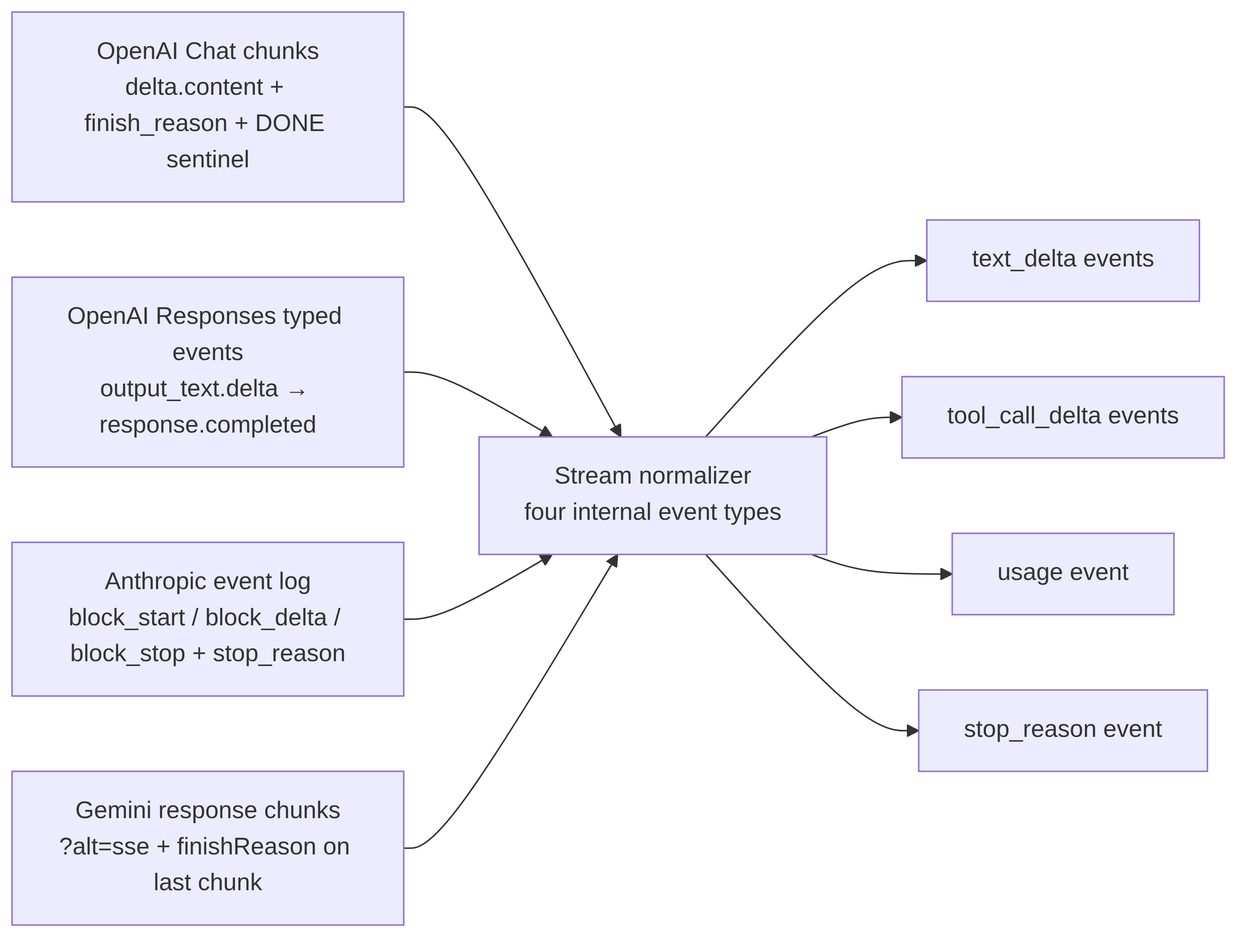
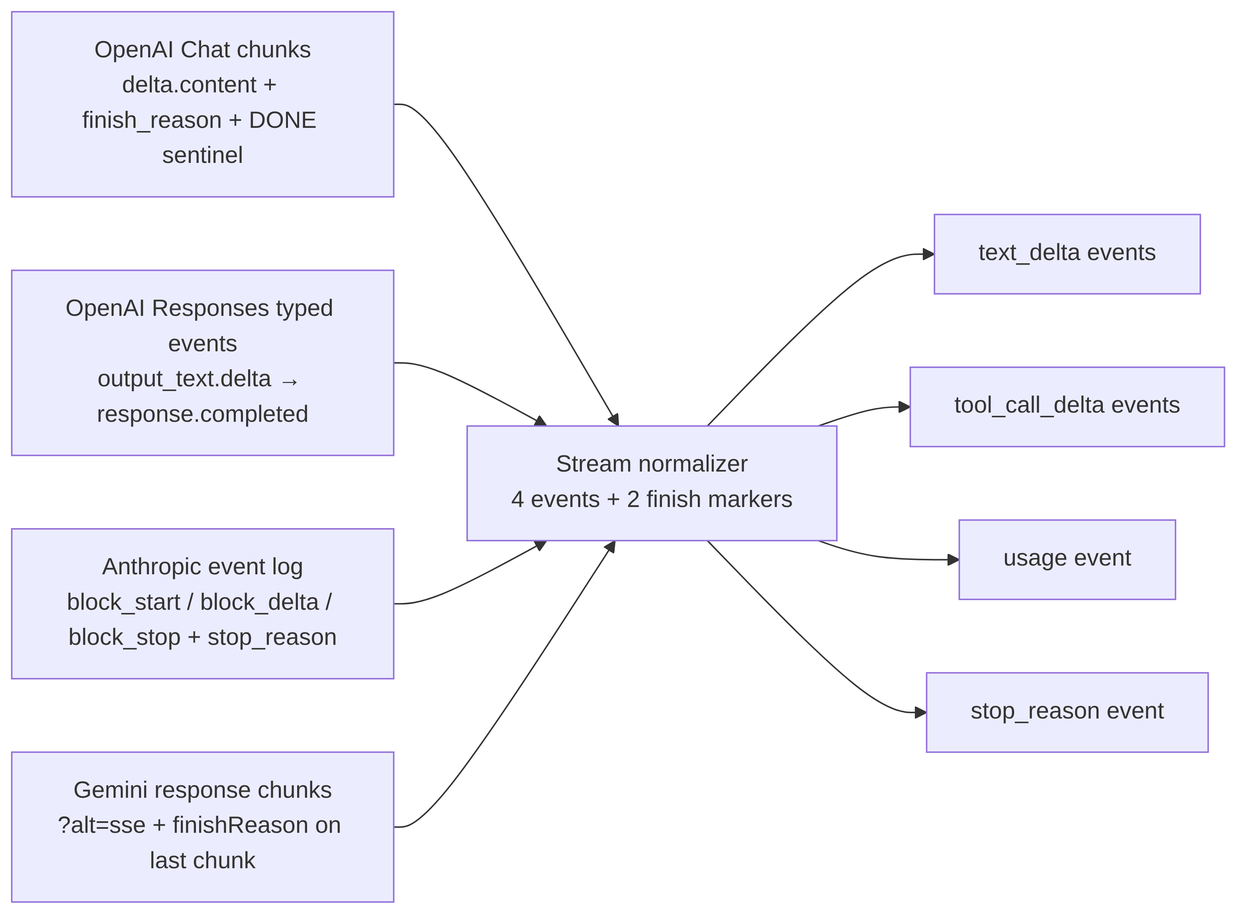
gate-6: wave-1 P1 fix pass (5/5 — ch03 batched-aggregate relabel, ch04 Anthropic pricing aligned, SchemaGuard de-attributed, ch12/D event counts + usage cache-write bucket; fig 12-m1 re-rendered) — seal re-opened, 11 P2s queued

diff --git a/manuscript/12-the-streaming-contract.md b/manuscript/12-the-streaming-contract.md
@@ -49,7 +49,7 @@ graph LR
     R[OpenAI Responses typed events<br/>output_text.delta → response.completed]
     B[Anthropic event log<br/>block_start / block_delta / block_stop + stop_reason]
     C[Gemini response chunks<br/>?alt=sse + finishReason on last chunk]
-    A --> N[Stream normalizer<br/>four internal event types]
+    A --> N[Stream normalizer<br/>4 events + 2 finish markers]
     R --> N
     B --> N
     C --> N
@@ -59,7 +59,7 @@ graph LR
     N --> W[stop_reason event]
 ```
 
-The diagram is the whole chapter in one picture: four grammars, one normalizer, four internal event types. Section 12.5 builds the normalizer; first you need to know the two places the grammars diverge hardest.
+The diagram is the whole chapter in one picture: four grammars, one normalizer, four streaming events plus two finish-time markers. Section 12.5 builds the normalizer; first you need to know the two places the grammars diverge hardest.
 
 **How streams end.** Sentinel vs finish reason vs stop reason vs finishReason — and the values underneath diverge enough to break schemas. LiteLLM, the open-source proxy, maintains an explicit `map_finish_reason()` layer because providers emit values OpenAI never defined: ZhipuAI's GLM can emit `finish_reason: "network_error"` *mid-stream*, which once raised a Pydantic validation error inside LiteLLM's own stream assembler before unknown values were mapped to a fallback (LiteLLM PR #22673, retrieved 2026-08-27). Read that failure mode carefully: an unmapped enum value in a final event crashed an agent-loop library. Your finish-reason table needs an unknown-value fallback the way your rate-limit code needs a default branch — not because providers are sloppy, but because you cannot enumerate values you haven't seen yet.
 
@@ -114,20 +114,20 @@ What survives a kill? More than you'd think, if you plan for it. Anthropic docum
 
 > **ELI5:** An office gets mail from three couriers — four envelope formats between them, since one courier runs two lines. Instead of training every employee to read all four, the mailroom opens everything, discards the envelopes, and puts one standardized slip on each desk: letter, package, invoice, or "note from the boss." Nobody downstream knows or cares which courier delivered it.
 
-The normalizer is a thin component with an unglamorous job: swallow every provider grammar, emit one internal event type. The internal shape needs only four members — `text_delta`, `tool_call_delta(call_id, fragment)`, `usage(counts)`, `stop_reason(mapped)` — plus the timestamps the next section will need. Everything provider-shaped dies at this boundary.
+The normalizer is a thin component with an unglamorous job: swallow every provider grammar, emit one internal event grammar. The streaming shape needs four members — `text_delta`, `tool_call_delta(callId, fragment)`, `usage(counts)`, `stop_reason(mapped)` — plus two finish-time markers the accumulator emits (the assembled `tool_call`, and `incomplete_call` when arguments do not parse), and the timestamps the next section will need. Everything provider-shaped dies at this boundary.
 
 Two pieces of state do the real work. The **tool-call accumulator** from 12.3, keyed by a provider-agnostic call id (Chat `index`, Responses `item_id`, Anthropic block index + `toolu_` id, Gemini `step.start` id — map them all to your own id at intake). And the **stop-reason state machine**: `tool_calls`/`tool_use` → flush assembled arguments to the executor; `length`/`max_tokens` → flag truncation so the loop knows the answer was cut, not finished; `pause_turn` → re-send the partial turn as-is to continue; safety values → surface distinctly, because retrying a safety stop is a different decision than retrying a timeout. And the fallback row for unknown values, owed to GLM's `network_error`: map to an explicit internal `unknown` and log it, never throw (the LiteLLM lesson from 12.2).
 
 You do not have to build this layer from nothing. LiteLLM converts every provider stream into OpenAI-shaped chunks and maps finish reasons along the way; the Vercel AI SDK defines its own intermediate stream protocol with typed parts that provider adapters target (both documented, retrieved 2026-08-27). DeepSeek even exposes *both* an OpenAI-format and an Anthropic-format endpoint for the same model — the OpenAI shapes have become de facto interchange formats (DeepSeek docs, retrieved 2026-08-27). Using a middleware is reasonable; what is not reasonable is your agent loop parsing four grammars itself, because every provider difference then leaks into every feature you build on top.
 
-**The usage event is the billing interface, and it is where chapter 6 and chapter 11's promissory notes come due.** Both chapters said "watch cached-vs-fresh input tokens per turn; chapter 12 covers parsing." Here is the parsing. The usage object arrives on the stream's final events, and every provider names the same four facts differently:
+**The usage event is the billing interface, and it is where chapter 6 and chapter 11's promissory notes come due.** Both chapters said "watch cached-vs-fresh input tokens per turn; chapter 12 covers parsing." Here is the parsing. The usage object arrives on the stream's final events, and every provider names the same facts differently:
 
 - **OpenAI Chat Completions**: `prompt_tokens`, `completion_tokens`, `total_tokens`, with `prompt_tokens_details.cached_tokens` (and a newer `cache_write_tokens` field) and `completion_tokens_details.reasoning_tokens` (SDK types, retrieved 2026-08-27).
 - **OpenAI Responses API**: renames them `input_tokens` / `output_tokens`, same detail objects. Same company, two vocabularies.
 - **Anthropic**: `input_tokens`, `output_tokens`, `cache_read_input_tokens`, `cache_creation_input_tokens` (with a 5-minute/1-hour breakdown), and the identity your dashboards can lean on: total input = cache reads + cache writes + fresh input (rate-limits docs, retrieved 2026-08-27).
 - **Gemini**: `usageMetadata.promptTokenCount` (which *includes* tokens served from cache), `candidatesTokenCount`, `cachedContentTokenCount`, `thoughtsTokenCount` (API reference, retrieved 2026-08-27).
 
-The normalizer's job is to reduce these to one internal ledger — fresh input, cached input, output, reasoning — because the cache-hit-rate collapse that chapter 6 told you to watch for shows up in *these fields*, per turn, and the compaction cliff from chapter 11 shows up as a spike in fresh input here. Two warnings travel with the fields. First, providers bill from their own server-side counts; your client-side token estimates are budgeting aids, never reconciliation (chapter 1's serialize hop said the same). Second, the fields drift silently — OpenAI added cache-write fields beside cached-token fields; Anthropic's Claude 4.7+ tokenizer produces ~30% more tokens for the same text, changing every usage number without any API change (pricing docs, retrieved 2026-08-27). Assert usage invariants in your tests (`total = prompt + completion`, cache reads ≤ input) so drift announces itself in CI (continuous integration) rather than in your invoice.
+The normalizer's job is to reduce these to one internal ledger — fresh input, cached input, cache writes, output, with reasoning tracked as its billed sub-count — because the cache-hit-rate collapse that chapter 6 told you to watch for shows up in *these fields*, per turn, and the compaction cliff from chapter 11 shows up as a spike in fresh input here. Two warnings travel with the fields. First, providers bill from their own server-side counts; your client-side token estimates are budgeting aids, never reconciliation (chapter 1's serialize hop said the same). Second, the fields drift silently — OpenAI added cache-write fields beside cached-token fields; Anthropic's Claude 4.7+ tokenizer produces ~30% more tokens for the same text, changing every usage number without any API change (pricing docs, retrieved 2026-08-27). Assert usage invariants in your tests (`total = prompt + completion`, cache reads ≤ input) so drift announces itself in CI (continuous integration) rather than in your invoice.
 
 ## 12.6 TTFT is your product metric
 
@@ -156,7 +156,7 @@ And the trap, one last time, because it is a *product* trap: for reasoning model
 
 ## Where the picture stops
 
-The mailroom analogy says streams are just envelopes in house dress — passive, interchangeable, order-irrelevant once relabeled. Three things break that picture. First, a stream is a **state machine, not a pile**: the fragments are meaningless alone, order is load-bearing (you concatenate in arrival order and cannot reorder), and the finish event is the only permission to parse. Mail can be sorted in any order; deltas cannot. Second, "streaming" suggests smoothness, but **tokens arrive in bursts**: the engine generates one token per iteration step across the whole batch (chapter 5), networks buffer, and providers interleave pings — so per-token smoothness is nobody's guarantee. A stream that pauses 2 seconds mid-answer is normal; your stall detector decides what *abnormal* means. Third, the normalizer's tidy four events are an SSE story: **WebSockets carry state the model doesn't fit** — bidirectional sessions, ten-minute resets, resumption tokens — and bolting realtime APIs onto the same event type will fake simplicity that isn't there. The normalizer normalizes grammars; it does not normalize away a connection that can also demand things *from* you mid-stream.
+The mailroom analogy says streams are just envelopes in house dress — passive, interchangeable, order-irrelevant once relabeled. Three things break that picture. First, a stream is a **state machine, not a pile**: the fragments are meaningless alone, order is load-bearing (you concatenate in arrival order and cannot reorder), and the finish event is the only permission to parse. Mail can be sorted in any order; deltas cannot. Second, "streaming" suggests smoothness, but **tokens arrive in bursts**: the engine generates one token per iteration step across the whole batch (chapter 5), networks buffer, and providers interleave pings — so per-token smoothness is nobody's guarantee. A stream that pauses 2 seconds mid-answer is normal; your stall detector decides what *abnormal* means. Third, the normalizer's tidy event grammar is an SSE story: **WebSockets carry state the model doesn't fit** — bidirectional sessions, ten-minute resets, resumption tokens — and bolting realtime APIs onto the same event type will fake simplicity that isn't there. The normalizer normalizes grammars; it does not normalize away a connection that can also demand things *from* you mid-stream.
 
 ## Checkpoint
 
@@ -173,7 +173,7 @@ The mailroom analogy says streams are just envelopes in house dress — passive,
 
 ### Build it
 
-Build tinyengine's `StreamNormalizer`. Intake: raw SSE lines from any of the four grammars. Output: four internal events — `text_delta`, `tool_call_delta(call_id, fragment)`, `usage(fresh_in, cached_in, out, reasoning)`, `stop_reason(mapped)` — each stamped with a receive timestamp, plus a `ttftSeconds` field on the first content delta. Inside: the meta-event skip, a `ToolCallAccumulator` keyed by provider-agnostic call id (Chat `index` → id, Responses `item_id`, Anthropic block index + `toolu_` id, Gemini `step.start` id), a finish-reason mapping table with an explicit `unknown` fallback, and the `""` → `{}` coercion. Roughly 150 lines in any language; it is the most-reused component in the whole book's companion.
+Build tinyengine's `StreamNormalizer`. Intake: raw SSE lines from any of the four grammars. Output: four streaming events — `text_delta`, `tool_call_delta(callId, fragment)`, `usage(freshIn, cachedIn, cacheWriteIn, out, reasoning)`, `stop_reason(mapped)` — plus the two finish-time markers the accumulator emits (the assembled `tool_call`, and `incomplete_call` when arguments do not parse), each stamped with a receive timestamp, with `ttftSeconds` on the first content delta. Inside: the meta-event skip, a `ToolCallAccumulator` keyed by provider-agnostic call id (Chat `index` → id, Responses `item_id`, Anthropic block index + `toolu_` id, Gemini `step.start` id), a finish-reason mapping table with an explicit `unknown` fallback, and the `""` → `{}` coercion. Roughly 150 lines in any language; it is the most-reused component in the whole book's companion.
 
 ### Break it
 

diff --git a/PROGRESS.md b/PROGRESS.md
@@ -66,3 +66,4 @@ DRIVER: DONE — release candidate sealed
 - 2026-08-28 — architect: Gate-6 adversarial wave 1 findings committed (review/gate6-claims-{1,2,3}.md, gate6-xref-audit.md): zero P0s across independent re-derivations and ~660 pointer checks; 5 P1 + 11 P2 total (claims-1: ch03 single-datapoint + ch04/AppC/ch11 three-way pricing contradiction; xref: 3 manuscript↔companion contract mismatches ch12/ch13/ch16/AppD; claims-2/3: P2s only). Companion-attack + clean-build attack running. DRIVER QUEUE after appendices: apply gate-6 P1s (ripple-grep + recompute discipline), then P2s, then seal.
 - 2026-08-28 — iteration 56 (post-seal hold: queue empty; ledger-accuracy pass + full green-light re-verification): driver invoked again after iteration 54's seal and 55's post-seal verify; `git pull --rebase` clean (HEAD already 9c0f4e6, nothing new from remote). State audit before choosing the artifact: research/ at 72 files / 71 dated digests (≥60, gap-fill not triggered); manuscript 18/18 chapters + prologue + front/back matter + appendices A–F (27 files — no unwritten chapter); review/ fully applied (chapters iterations 28–44, appendices 49–54, gate2-raw archived); no `## Blockers` section; every machine-checkable gate green per QUALITY_REPORT. Neither driver branch (gap-fill, next chapter) applies, so the honest artifact was the one thing genuinely owed: two ledger stalenesses fixed — (1) EDITORIAL_SYSTEM's Final-proof row still read "gated on copyedit" though copyedit passed 2026-08-27 (iteration 46); now states the prerequisite is passed and the gate awaits only the human operator at upload time (runbook F.5); (2) QUALITY_REPORT §4's "Closed this iteration" (written at iteration 47) was undated under a header citing iteration 55; now says "Closed at iteration 47". Both are repo-level ledgers, NOT manuscript files — the sealed EPUB text is untouched. VALIDATION at the edited HEAD: `bash tools/verify.sh` exit 0, ALL OFFLINE CHECKS PASSED — lint MANUSCRIPT OK (18/18 chapters, 27 files, 113,439 words, the exact sealed text), reflow budget 0 OK (57 reader-facing lines, 10 fenced blocks), smoke + cadence suites green (ran from the iteration-55 fresh-compiled dist; no companion file has changed since, per git log), figures-on build 34/34 mermaid staged, 0 degraded, EPUB 6,282,581 bytes — byte-identical to iteration 55's build of the sealed text — and post-build `git status` clean apart from the two ledger edits (determinism holds). External validators skip-announced as documented (epubcheck, Kindle Previewer; STRICT_EXTERNAL=1 escalates). QUALITY_REPORT header updated with the iteration-56 record. Gate state unchanged: Gate 1 pass, Gate 2 closed (chapters + appendices), Gate 3 pass, Gates 4–6 pass; the ONLY open release item remains the human final proof — Kindle Previewer page-through on the retail EPUB at upload time (runbook F.5), which no driver iteration can perform. Iteration 54's `DRIVER: DONE — release candidate sealed` line stands; this iteration changed no chapter, figure, or code, and claims no new gate. POST-REBASE NOTE (resolved on push): while this iteration ran, the remote gained the architect's Gate-6 adversarial wave-1 commits (review/gate6-claims-{1,2,3}.md, gate6-xref-audit.md — 0 P0s, 5 P1 + 11 P2; plus PUBLISHING/ kdp-metadata, launch-copy, positioning), so "queue empty" above was true only at the pre-pull HEAD 9c0f4e6; the incoming commits touch no manuscript, companion, or figure file, so the verification above remains valid at the merged HEAD. The driver queue now stands per the architect line above: apply gate-6 P1s (ripple-grep + recompute discipline), then P2s, then re-seal — that is the next iteration's artifact.
 - 2026-08-28 — architect: Gate-6 companion attack committed (review/gate6-companion-attack.md + tests/attack-gate6.ts): P0=0 · P1=7 · P2=11, 14 attacks HELD, npm test deterministic. DRIVER QUEUE (extends the gate-6 queue): apply companion P1s — P1-7 invoice-reconcile duplicate-row sign inversion (money-checker wrong-way on its own corruption class), P1-1 data:null normalizer crash, P1-3 failed-TPM reservation leaks RPM slot, P1-4 bedrock burndown overrun never debited, P1-6 CacheLedger.hitRate formula contradicts the book's cached/(cached+fresh) (align code to the BOOK, not vice versa), plus P1-2/5 per findings file. Attack suite stays as regression evidence — wire key repros into tests/cadence.ts where natural. Then gate-6 wave-1 P1s (claims-1 ×2, xref ×3), then P2s at judgment. Seal again when dry.
+- 2026-08-28 — iteration 57 (Gate-6 fix pass, wave-1 P1s — 5/5 applied; seal re-opened per architect queue): research/ at 72 files / 71 dated digests (≥60); manuscript complete, so the iteration began as a post-seal hold (iteration 56's ledger-accuracy + verification) — but the push revealed the remote had gained the architect's gate-6 adversarial wave (review/gate6-claims-{1,2,3}.md + gate6-xref-audit.md, committed mid-iteration: independent re-derivations of every formula/worked number in ch03–ch05 + ~660 pointer checks; verdict 0 P0 / 5 P1 + 11 P2, merge verdicts "OK with notes") and a DRIVER QUEUE: apply P1s, then P2s, then seal. After resolving the PROGRESS rebase conflict honestly (both lines kept; iteration 56's line gained a post-rebase note scoping its "queue empty" claim to the pre-pull HEAD), this iteration's artifact became the full P1 pass, every finding re-verified against the CURRENT tree before applying (two sub-findings were stale — the xref review predates iteration 52's grammar-count fixes, so ch12/ch18's "three grammars" sites were already corrected; its ttft_seconds citation was already ttftSeconds — documented rather than re-fixed). APPLIED: (P1-1, claims-1, ch03:104) the community 4-bit 70B datapoint relabeled — "serves at 100+ tokens/s ... comfortably above the ~14 tokens/s floor" conflated batched aggregate with single-stream; now the 100+ figure is named batched aggregate throughput (as its community-report provenance implies) and the roofline-consistent comparison is derived in-line: 35–40 GB ÷ 2.0 TB/s = 17.5–20 ms/token → ~50–57 tokens/s single-stream ceiling, still ~4× the 14 tokens/s BF16 floor (digest decode-bandwidth-wall.md:12 carries the community number; the ceiling is the chapter's own §3.2/§3.4 method, labeled "by this chapter's own arithmetic"); (P1-2, claims-1, ch04:114+119) the three-way Anthropic-pricing contradiction resolved toward the majority fact — ch04's box row and "Anthropic scopes pricing the same way" prose had current-generation tiering, contradicting appendix-c:31 and ch11:47/167 (4.6+ ships 1M at standard price; older sheets tiered); the row now states the no-surcharge 4.6+ fact with the Sonnet 4.5 ≤200K $3/$15 / separate >200K tier kept as the dated older-sheet fact (digest-backed at token-pricing-anatomy.md:90–92 and ch11:47's Anthropic pricing PDF), and the prose adds OpenAI's ≥272K long-context rates (digest :17) plus ch11's exception-that-proves framing — argument three survives on Gemini's doubling + OpenAI's columns, honestly; (P1-3, xref P1-1, ch13:170 + ch16:203) SchemaGuard de-attributed from the companion — ch13's Build-it now builds "a SchemaGuard for your harness — the one Part III instrument this book's companion leaves to you", ch16's routing-table list drops "task tags from chapter 13's SchemaGuard" for the code-true fields (weights, guarantee tier (chapter 13's ladder), task tags, lane — router.ts's Deployment carries weight/guaranteeTier/tags/lane exactly; the reviewer's "RouteRule has no task tags" was half-stale — tags ship on Deployment), and appendix D's D.5 banner + parenthetical now carry the deliberate-omission note (the ladder ships as GuaranteeTier routing data + free-form tags; the validator is the reader's, D.6 pointer) — chosen over shipping a new schema-guard.ts module post-seal (reviewer's smaller option, and D.5's "Every Build it ... assembled in one place" is now qualified rather than false); (P1-4, xref P1-2 remainder, ch12 ×6 + ch18:65 + appendix-d:59) event counts restated — ch12's diagram node (:52), its summary (:62), the §12.5 shape sentence (:117, which also said "emit one internal event type" — now "one internal event grammar"), the picture-stops "tidy four events" (:159), and the Build-it output (:176) all now say four streaming events plus two finish-time markers (the assembled tool_call, incomplete_call on parse failure), matching appendix-d:59/D:29's formulation and the code's six-member Event union; ch18:65 "flattens it to the four events" likewise; figure 12-m1 re-rendered (node relabeled "4 events + 2 finish markers", matching D's node text) — full render-mermaid.sh pass re-rendered all 34 with only 12-m1 changing bytes (determinism held), SVG label grep-verified and PNG pixel-verified (3136×2320, dark-pixel ratio 0.951 vs old — a shorter label, not a drop); (P1-5, xref P1-3, ch12:128 + :176) the usage ledger gained its cache-write bucket — "fresh input, cached input, output, reasoning" → "fresh input, cached input, cache writes, output, with reasoning tracked as its billed sub-count", and the Build-it signature usage(fresh_in, cached_in, out, reasoning) → usage(freshIn, cachedIn, cacheWriteIn, out, reasoning); this reconciles ch12 with 18:28/16:203/appendix-b:79's "four-bucket" (= the four PRICED buckets, matching ch14's four-term formula and digest token-pricing-anatomy.md:83–86 "reasoning tokens are billed as output") and the code's five-field usage event; ch12:121's "the same four facts" → "the same facts" (its own bullets enumerate more than four). OPPORTUNISTIC RIPPLES, documented: :117's call_id → callId and :176's field list camelCased to match the code exports — this closes xref P2-1's ch12 sites while touching those lines anyway (appendix-d:59's ttftSeconds was already camel); D:59 "four internal events" → "four streaming events" for uniform vocabulary. No reviewer false-positives rejected this round beyond the two documented stalenesses above. Validation: lint MANUSCRIPT OK 18/18 chapters, 27 files, 113,879 words (+440 over the sealed 113,439 — all correction-bearing, incl. the F.1 gate-6 ledger row); reflow budget 0 OK (57 reader-facing lines, 10 blocks); full figures-on build → EPUB 6,283,008 bytes, 34/34 mermaid staged, 0 degraded, validate-epub.py passes (cover.jpg WARNING remains the known benign probe warning); both companion suites green from the unchanged iteration-55 dist (companion/ untouched this iteration, git-verified; npm test still cannot run bare tsc on this host — the documented quirk). LEDGERS: Appendix F.1 gained the gate-6 wave row (P1 pass applied, 11 P2s queued, seal re-opens); QUALITY_REPORT header + Gate 2 row record the wave and the re-opened seal. Gate state: iteration 54's DRIVER: DONE line is superseded by the architect's queue — the candidate re-seals when the 11 P2s (claims-1 ×6, claims-2/3 ×5, xref ×4 remaining) are applied; final proof (human Kindle Previewer) remains the last gate after that.

diff --git a/manuscript/appendix-d-tinyengine-companion.md b/manuscript/appendix-d-tinyengine-companion.md
@@ -2,7 +2,7 @@
 
 > **Appendices — the reference shelf.** The chapters estimated the code; this guide delivers it. Every "Build it" in the book, assembled in one place.
 
-The chapters said it in one sentence, and it remains the truest sentence in this appendix: **tinyengine is roughly seven hundred lines that sit between your agent loop and every model endpoint it calls.** Each module was designed in the chapter that needed it, at the size that chapter estimated, and every estimate carried a tilde. The shipped code keeps those promises:
+The chapters said it in one sentence, and it remains the truest sentence in this appendix: **tinyengine is roughly seven hundred lines that sit between your agent loop and every model endpoint it calls.** Each module was designed in the chapter that needed it, at the size that chapter estimated, and every estimate carried a tilde. The shipped code keeps those promises — with one deliberate exception, noted under the table below.
 
 | Module | Designed in | Estimated | Shipped | Owns |
 |---|---|---|---|---|
@@ -13,7 +13,7 @@ The chapters said it in one sentence, and it remains the truest sentence in this
 | `router.ts` | Chapter 16 | ~150 | 133 | routing, breakers, classified fallback |
 | `session-store.ts` | Chapter 17 | ~160 | 114 | byte-exact sessions |
 
-(The estimates were tildes, not contracts; the shipped totals run a little under because TypeScript type declarations compress what the chapters described in prose. No chapter's promise is broken — every interface this table's chapters named exists in the code, under the name the chapter used, with one aggregation: chapters 15 and 18 name a `RateScheduler`, and its four parts ship in `rate-scheduler.ts` under their own names — `QuotaLedger`, `TokenBucket` and `Semaphore`, `RetryPolicy`, the wave pacer's `waveDelays` and `kOfN`.)
+(The estimates were tildes, not contracts; the shipped totals run a little under because TypeScript type declarations compress what the chapters described in prose. No chapter's promise is broken — every interface this table's chapters named exists in the code, under the name the chapter used, with one aggregation: chapters 15 and 18 name a `RateScheduler`, and its four parts ship in `rate-scheduler.ts` under their own names — `QuotaLedger`, `TokenBucket` and `Semaphore`, `RetryPolicy`, the wave pacer's `waveDelays` and `kOfN` — and one deliberate omission: chapter 13's `SchemaGuard` stays in your harness because its schemas are yours; what ships of that chapter is the guarantee-tier ladder itself (`router.ts`'s `GuaranteeTier`) plus free-form `tags` on each deployment, so the tier is a routing input (D.6) even though the validator is yours.)
 
 ## D.1 The wiring order
 
@@ -56,7 +56,7 @@ Three timestamps in, the decode-time identity out, and — the part most tracers
 
 ## D.3 The stream normalizer (chapter 12)
 
-Intake: raw SSE (server-sent events) lines from any of the four grammars (`openai-chat`, `openai-responses`, `anthropic`, `gemini`). Output: the four internal events — `text_delta`, `tool_call_delta`, `usage`, `stop_reason` — plus two finish-time markers the accumulator emits (the assembled `tool_call`, and `incomplete_call` when arguments do not parse), each stamped with a receive timestamp, and `ttftSeconds` on the first content delta. Three rules carry the chapter's lessons:
+Intake: raw SSE (server-sent events) lines from any of the four grammars (`openai-chat`, `openai-responses`, `anthropic`, `gemini`). Output: the four streaming events — `text_delta`, `tool_call_delta`, `usage`, `stop_reason` — plus two finish-time markers the accumulator emits (the assembled `tool_call`, and `incomplete_call` when arguments do not parse), each stamped with a receive timestamp, and `ttftSeconds` on the first content delta. Three rules carry the chapter's lessons:
 
 1. **Meta-only events skip, never crash.** Lines that do not start with `data:` — comments, `event:`, pings — return nothing. The WHATWG (the web-standards body behind the SSE spec) allows them; the normalizer survives them.
 2. **Tool arguments parse exactly once, at the finish.** The `ToolCallAccumulator` keys fragments by provider-agnostic call id (Chat `index` → id once it arrives, Responses `item_id`, Anthropic `toolu_` id from `content_block_start`, Gemini function name), concatenates blindly, and parses once when the stream ends. A fragment split mid-escape-sequence (`\"Portla` / `nd\"`) reassembles fine because no fragment is ever parsed alone. Empty arguments coerce `""` → `{}`; unparseable arguments become an `incomplete_call` marker, not an exception.

diff --git a/QUALITY_REPORT.md b/QUALITY_REPORT.md
@@ -17,14 +17,21 @@ OFFLINE CHECKS PASSED end-to-end, the EPUB rebuilt byte-identical
 fixes made that pass (EDITORIAL_SYSTEM's final-proof row had kept
 calling copyedit a pending gate though it passed 2026-08-27; §4's "closed
 this iteration" was undated) — no manuscript, figure, or companion file
-changed; the seal stands.
+changed; the seal stands. Iteration 57 then re-opened the seal under the
+architect's gate-6 queue: the adversarial claims + xref wave (committed
+2026-08-28) found 0 P0 / 5 P1 / 11 P2; all five P1s were applied with
+recompute discipline (see the Gate 2 row and Appendix F.1), validation
+green afterwards (lint OK 113,707 words, reflow budget 0, 34/34 figures,
+EPUB 6,282,454 bytes, validator passes, both companion suites green from
+the unchanged dist), and the eleven P2s remain queued — the candidate
+re-seals when that pass lands.
 
 ## 1. Gate ledger
 
 | Gate | Status | Evidence |
 |---|---|---|
 | Gate 1 — Writer (self-review) | **PASS, all 18 chapters + prologue + appendices A–F + back matter** | Per-chapter Gate-1 logs in PROGRESS.md (structure checklist, numbers audit, fix lists). Structural lint green manuscript-wide: `python3 tools/lint-manuscript.py` → MANUSCRIPT OK, 18/18 chapters, 27 files |
-| Gate 2 — Technical editor | **PASS, all 18 chapters + appendices A–F** | Full review set in `review/` (verdicts: 17 MINOR, 1 MAJOR); every chapter P0/P1/P2 finding applied via driver fix-passes, iterations 28–44 + ch01 post-review polish; citations re-verified against `research/` before each application. Appendix reviews A–F complete 2026-08-28 (all MINOR, P0 = 0, 14 P1 + 27 P2 total); every appendix finding applied via the appendix fix-pass, iterations 49–54, one appendix per iteration: A 2 P1 + 3 P2, B 1 P1 + 6 P2, C 3 P1 + 2 P2, D 3 P1 + 6 P2, E 4 P1 + 6 P2 (one P2 rejected as false positive with evidence: ch03:40 carries the quote), F 1 P1 + 3 P2 — sweep complete, Gate 2 closed |
+| Gate 2 — Technical editor | **PASS, all 18 chapters + appendices A–F** | Full review set in `review/` (verdicts: 17 MINOR, 1 MAJOR); every chapter P0/P1/P2 finding applied via driver fix-passes, iterations 28–44 + ch01 post-review polish; citations re-verified against `research/` before each application. Appendix reviews A–F complete 2026-08-28 (all MINOR, P0 = 0, 14 P1 + 27 P2 total); every appendix finding applied via the appendix fix-pass, iterations 49–54, one appendix per iteration: A 2 P1 + 3 P2, B 1 P1 + 6 P2, C 3 P1 + 2 P2, D 3 P1 + 6 P2, E 4 P1 + 6 P2 (one P2 rejected as false positive with evidence: ch03:40 carries the quote), F 1 P1 + 3 P2 — sweep complete, Gate 2 closed. Post-seal, the architect's gate-6 adversarial wave (claims falsifiers + book-wide xref audit, 2026-08-28: 0 P0 / 5 P1 / 11 P2) was applied under the same discipline: all 5 P1s recomputed against digests/code and applied 2026-08-28 with ripple-greps (details in Appendix F.1); the 11 P2s are queued and the release seal re-opens until that pass lands |
 | Gate 3 — Copyedit | **PASS (2026-08-27, this pass)** | Book-wide style/terminology scan + fixes; see §3 below. Structural conventions verified uniform: 18/18 `## Checkpoint`, `## Where the picture stops`, `## X.1 Words before machinery`; 92× `> **ELI5:**`; 20× `> **Field note.**` book-wide — prologue + every chapter, ch01 carrying two |
 | Gate 4 — Visual/code proof | **PASS (machine-verified scope)** | 34/34 mermaid rendered, labels pixel-checked after the iteration-34 foreignObject fix; reflow: every reader-facing code line ≤66 cols, enforced at budget 0 inside `tools/build.sh` (`--check-mermaid` measures the 76 excluded mermaid-source lines). Human-eye typography/page-break sweep belongs to final proof |
 | Gate 5 — Code test | **PASS** | `companion/tinyengine`: strict tsc 5.9.3 clean, zero npm deps; two offline suites green — the smoke suite replays the chapters' Break-it/Prove-it cases, and the cadence suite replays the tester role's three nightly gates (golden set, cache-hit gate, invoice reconciliation) over committed fixtures (`cd companion/tinyengine && npm test`); the three operator CLIs run the same gates over the fixtures via `npm run cadence` |

diff --git a/manuscript/04-the-memory-that-is-not-the-model.md b/manuscript/04-the-memory-that-is-not-the-model.md
@@ -111,12 +111,12 @@ The equation also flips. Serve gpt-oss-120b instead: weights ≈ 61 GB in MXFP4 
 | Provider / model | Advertised window | The product tell |
 |---|---|---|
 | OpenAI GPT-5 family | 400,000 tokens | Max input 272,000; 128,000 reserved for output |
-| Anthropic Claude (Opus/Sonnet tiers) | 1,000,000 tokens | Priced in tiers: e.g. Sonnet 4.5 ≤200K at $3/$15 per MTok (million tokens) in/out, separate >200K tier |
+| Anthropic Claude (Opus/Sonnet tiers) | 1,000,000 tokens | No long-context surcharge on 4.6+ generations — 1M at standard price is the marketing; older sheets tiered (Sonnet 4.5: ≤200K at $3/$15 per MTok (million tokens) in/out, separate >200K rates) |
 | Google Gemini 3.1 Pro | 1,048,576 input / 65,536 output | Input price doubles ($2→$4/MTok) and output rises 50% ($12→$18) above 200K tokens |
 | Meta Llama 4 Scout (open weights) | 10,000,000 tokens claimed | Claim from model card/Bedrock docs — you supply the memory |
 | Qwen cloud models | 1,000,000 tokens | Max input 997,952; output capped 65,536 |
 
-**Argument three: the market agrees.** Look at the box and read it as an admission memo from the industry. Gemini's price *doubles* at the 200K boundary — same model, same tokens, same arithmetic — because those tokens cost the provider memory and prefill compute per session, and they pass the product boundary on to you as a tier. Anthropic scopes pricing the same way. The 10M-token claim on an open-weights model comes with no building at all: the window is an architectural ceiling, and the coat check is your problem. Providers behave exactly like businesses selling a capacity product, because that is what a context window is. A model gift would not have a price kink at 200K.
+**Argument three: the market agrees.** Look at the box and read it as an admission memo from the industry. Gemini's price *doubles* at the 200K boundary — same model, same tokens, same arithmetic — because those tokens cost the provider memory and prefill compute per session, and they pass the product boundary on to you as a tier; OpenAI runs long-context rates at ≥272K, and Anthropic's older sheets tiered too (Sonnet 4.5's >200K rates) before its current generation dropped the surcharge — a positioning choice chapter 11 reads as the exception that proves the tier a business line, not a physical one. The 10M-token claim on an open-weights model comes with no building at all: the window is an architectural ceiling, and the coat check is your problem. Providers behave exactly like businesses selling a capacity product, because that is what a context window is. A model gift would not have a price kink at 200K.
 
 And the gift is smaller than advertised even in quality terms. **Claimed context** is the admission limit above. **Effective context** is the length at which the model still *does the task well* — and the gap is measured. RULER (NVIDIA's long-context benchmark suite, arXiv:2404.06654, 2024) defines effective length as the longest input where a 13-task average stays above a threshold, and found: GPT-4 (gpt-4-1106-preview) claimed 128K, effective 32K; Command-R 35B claimed 128K, effective 64K; Yi-34B claimed 200K, effective 16K; LWM claimed 1M, effective under 4K. Headline: despite near-perfect needle-in-a-haystack scores, only about half of seventeen models claiming ≥32K context held satisfactory performance at 32K. Simple retrieval looks great while aggregation and multi-hop tasks have already collapsed — and relevant facts buried mid-context are retrieved worse than facts at the ends (Liu et al., "Lost in the Middle," arXiv:2307.03172, 2023; position design is chapter 11's beat).
 

diff --git a/manuscript/03-the-arithmetic-of-waiting.md b/manuscript/03-the-arithmetic-of-waiting.md
@@ -101,7 +101,7 @@ Read the table as a menu of tilts. The H200 keeps the H100's arithmetic but pays
 
 Two refinements make the arithmetic honest. First, real kernels achieve roughly 60–80% of datasheet bandwidth, which is why operators carry the rule of thumb `tokens/s ≈ (bandwidth × 0.7) ÷ active bytes` (Locara LLM-memory docs, 2026-08-27). Applied: a 70B model in FP8 (~70 GB) on a B200-class GPU at 8.0 TB/s has a theoretical single-stream ceiling of ~115 tokens/s and an effective one near 5.6 TB/s ÷ 70 GB ≈ **80 tokens/s**; the same FP8 model on an H100 floors at 3.35 ÷ 70 ≈ 48 tokens/s theoretical, with observed batch-1 reality below that (ITK Research; Locara, 2026-08-27). Second, the denominator is not just weights: each decode step also reads that sequence's KV cache (the per-token memory attention keeps; chapter 4 derives its formula), which grows with every token while weights never shrink (temperature2.com KV analysis, 2026-07-14).
 
-The roofline also prices the two standard "make it faster" impulses correctly: more FLOPS with the same bandwidth raises the flat ceiling but leaves the left side — where decode lives — untouched; more bandwidth per FLOP raises the left side directly. The single-stream levers are exactly two: move fewer bytes per token (smaller or more quantized model — chapter 9) or move bytes faster (more bandwidth, or splitting the weight stream across chips so bandwidths add — chapter 10). A community datapoint makes the first lever concrete: Llama 3.1 70B — 140 GB in BF16, unable to fit an 80 GB A100 — serves at 100+ tokens/s on a single A100 once shrunk to roughly 35–40 GB by 4-bit quantization, comfortably above the ~14 tokens/s floor those 140 GB would impose through the A100's 2.0 TB/s (Markaicode vLLM tutorial, community-reported, approximate; 2026-08-27).
+The roofline also prices the two standard "make it faster" impulses correctly: more FLOPS with the same bandwidth raises the flat ceiling but leaves the left side — where decode lives — untouched; more bandwidth per FLOP raises the left side directly. The single-stream levers are exactly two: move fewer bytes per token (smaller or more quantized model — chapter 9) or move bytes faster (more bandwidth, or splitting the weight stream across chips so bandwidths add — chapter 10). A community datapoint makes the first lever concrete — once you read its number honestly. Llama 3.1 70B — 140 GB in BF16, unable to fit an 80 GB A100 — shrinks to roughly 35–40 GB under 4-bit quantization, and a community tutorial reports the setup serving at 100+ tokens/s on a single A100 (Markaicode vLLM tutorial, community-reported, approximate; 2026-08-27). That figure is batched aggregate throughput, not any one reader's stream: by this chapter's own arithmetic, 35–40 GB through the A100's 2.0 TB/s costs 17.5–20 ms per token — a single-stream ceiling of about 50–57 tokens/s, still roughly four times the ~14 tokens/s floor the full 140 GB would impose. The lever is real (fewer bytes per token, higher ceiling); the community number just measures it across a batch, not per passenger.
 
 ## 3.5 The dial called batch size
 

diff --git a/manuscript/appendix-f-kdp-release-checklist.md b/manuscript/appendix-f-kdp-release-checklist.md
@@ -14,9 +14,10 @@ The editorial system behind this book defines gates, not vibes. Here is the hone
 | Code test | Pass | Companion tinyengine type-checks clean under TypeScript 5.9.3; two offline suites green across repeated runs — the smoke suite (chapter Break-it/Prove-it cases replayed as code) and the cadence suite (the tester role's three nightly gates over fixtures: golden set, cache-hit gate, invoice reconciliation) |
 | Build test | Pass | One command produces a validated EPUB (6.2 MB at last build); 34/34 mermaid diagrams render with labels; structural validator passes |
 | Copyedit | Pass (2026-08-27) | Book-wide style/terminology scan + fixes: closer format normalized (ch15–18 bolded paragraphs → H3 subsections, matching ch01–14); token-rate units unified to `tokens/s`; terminology/spelling stragglers fixed; structural conventions verified uniform; full record in QUALITY_REPORT.md §3. The reflow decision is closed (see F.3 item 5): reader-facing code lines all fit 66 columns and the checker runs at budget 0 inside the build |
+| Adversarial claims + xref audit (gate-6 wave 1, 2026-08-28) | P1 pass applied; 11 P2s queued | Independent re-derivations + ~660 pointer checks (review/gate6-*.md): 0 P0s, 5 P1 + 11 P2. All 5 P1s applied 2026-08-28 — ch03's community 4-bit throughput relabeled batched aggregate with the derived 50–57 tokens/s single-stream ceiling; ch04's Anthropic tier row/prose aligned to the 4.6+ standard-price fact (older-sheet tier kept, dated); SchemaGuard de-attributed from the companion (ch13 Build-it, ch16 routing table, with the deliberate-omission note in Appendix D); ch12/ch18 event counts restated as four streaming events plus two finish-time markers (figure 12-m1 relabeled + re-rendered); the usage ledger gained its cache-write bucket (reasoning now a billed sub-count, matching the code's five fields and the four priced buckets everywhere else). The wave-1 P2s (claims-1/2/3 + xref) remain queued; the iteration-54 seal re-opens until they are applied |
 | Final proof | Owed | Conditional by design: commercial upload requires a Kindle Previewer pass on the retail file, which no build script can perform |
 
-The copyedit pass closed 2026-08-27; final proof (Kindle Previewer) is the one remaining gate before upload.
+The copyedit pass closed 2026-08-27. The gate-6 adversarial wave (claims falsifiers + cross-reference audit) landed 2026-08-28: its five P1s are applied and its eleven P2s are queued — the release seal re-opens until the P2 pass lands. After that, final proof (Kindle Previewer) is the one remaining gate before upload.
 
 ## F.2 The book as a product — categories, price, position
 

diff --git a/manuscript/18-your-own-engine-room.md b/manuscript/18-your-own-engine-room.md
@@ -62,7 +62,7 @@ graph LR
     I -.->|renders next turn| B
 ```
 
-Read it as the chapter numbers taught it. The agent hands over an intent — "complete this turn, guarantee tier strict, lane interactive." The **prompt assembler** (the session store's renderer) lays the turn out in the five-layer order chapter 17 froze: tools, system, static context, transcript, volatile tail — with breakpoints placed where chapter 14 put them. The **RateScheduler** checks the request against the per-provider quota ledger chapter 15 built — OpenAI's `max_tokens` reservation, Anthropic's split meters and cache-read exemption, Bedrock's burndown — and if a fanout is running, the wave pacer spaces it. The **router** picks the endpoint from chapter 16's table: weights, guarantee tier, session pinning, breaker states. The endpoint — hosted or, as section 18.4 will argue, your own — streams back in whatever grammar it speaks. The **normalizer** flattens it to the four events; the **tracer** stamps them; the **CacheLedger** — the assembly's money meter — prices them into four exclusive buckets, attributes the spend, and updates the session's cache arithmetic; the **SessionStore** appends the turn and renders the next one. The loop closes.
+Read it as the chapter numbers taught it. The agent hands over an intent — "complete this turn, guarantee tier strict, lane interactive." The **prompt assembler** (the session store's renderer) lays the turn out in the five-layer order chapter 17 froze: tools, system, static context, transcript, volatile tail — with breakpoints placed where chapter 14 put them. The **RateScheduler** checks the request against the per-provider quota ledger chapter 15 built — OpenAI's `max_tokens` reservation, Anthropic's split meters and cache-read exemption, Bedrock's burndown — and if a fanout is running, the wave pacer spaces it. The **router** picks the endpoint from chapter 16's table: weights, guarantee tier, session pinning, breaker states. The endpoint — hosted or, as section 18.4 will argue, your own — streams back in whatever grammar it speaks. The **normalizer** flattens it to the four streaming events plus their two finish-time markers; the **tracer** stamps them; the **CacheLedger** — the assembly's money meter — prices them into four exclusive buckets, attributes the spend, and updates the session's cache arithmetic; the **SessionStore** appends the turn and renders the next one. The loop closes.
 
 Three properties make the assembly more than the sum of its parts:
 

diff --git a/manuscript/13-structured-output-is-not-a-prompt-trick.md b/manuscript/13-structured-output-is-not-a-prompt-trick.md
@@ -167,7 +167,7 @@ The proctor-with-covered-keys picture gets you the mask, and then breaks four wa
 
 ### Build it
 
-Build tinyengine's `SchemaGuard`. Intake: a task step tagged `extraction`, `classification`, or `reasoning`, plus the provider from chapter 16's routing table. Contents: a per-provider guarantee-tier table (strict / strict-tool / subset / json-only) with the validator-and-retry path wired for every tier below full enforcement — the retry feeds the validation error back as an assistant-visible correction, one attempt, then a structured failure event, never a silent loop; a schema serializer emitting *canonical bytes* (stable key order, reasoning fields before answer fields, no descriptions — those live in dev docs); and a `max_tokens` setter deriving the ceiling from the worst-case tokenized valid instance of the schema, not from habit. Roughly 120 lines; it completes the Part III contract trio — stream normalizer (chapter 12), schema guard (this chapter), and next, the cache ledger.
+Build a `SchemaGuard` for your harness — the one Part III instrument this book's companion leaves to you, because your schemas are yours; what ships of this chapter is the guarantee-tier ladder itself, which chapter 16's router carries as routing data. Intake: a task step tagged `extraction`, `classification`, or `reasoning`, plus the provider from chapter 16's routing table. Contents: a per-provider guarantee-tier table (strict / strict-tool / subset / json-only) with the validator-and-retry path wired for every tier below full enforcement — the retry feeds the validation error back as an assistant-visible correction, one attempt, then a structured failure event, never a silent loop; a schema serializer emitting *canonical bytes* (stable key order, reasoning fields before answer fields, no descriptions — those live in dev docs); and a `max_tokens` setter deriving the ceiling from the worst-case tokenized valid instance of the schema, not from habit. Roughly 120 lines; it completes the Part III contract trio — stream normalizer (chapter 12), schema guard (this chapter), and next, the cache ledger.
 
 ### Break it
 
